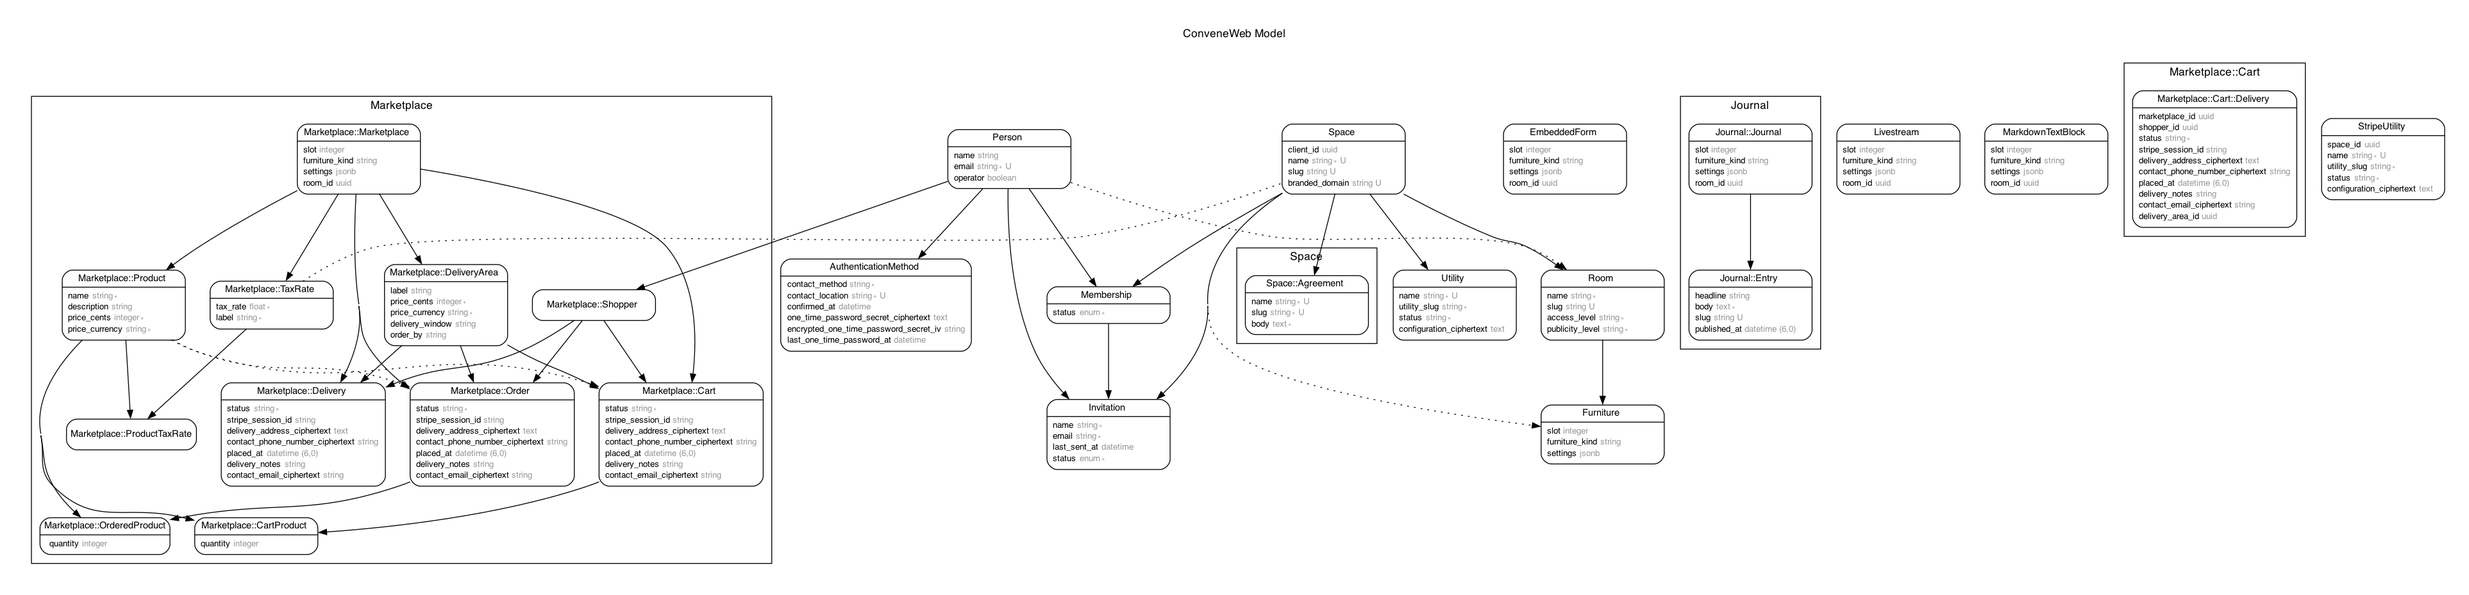
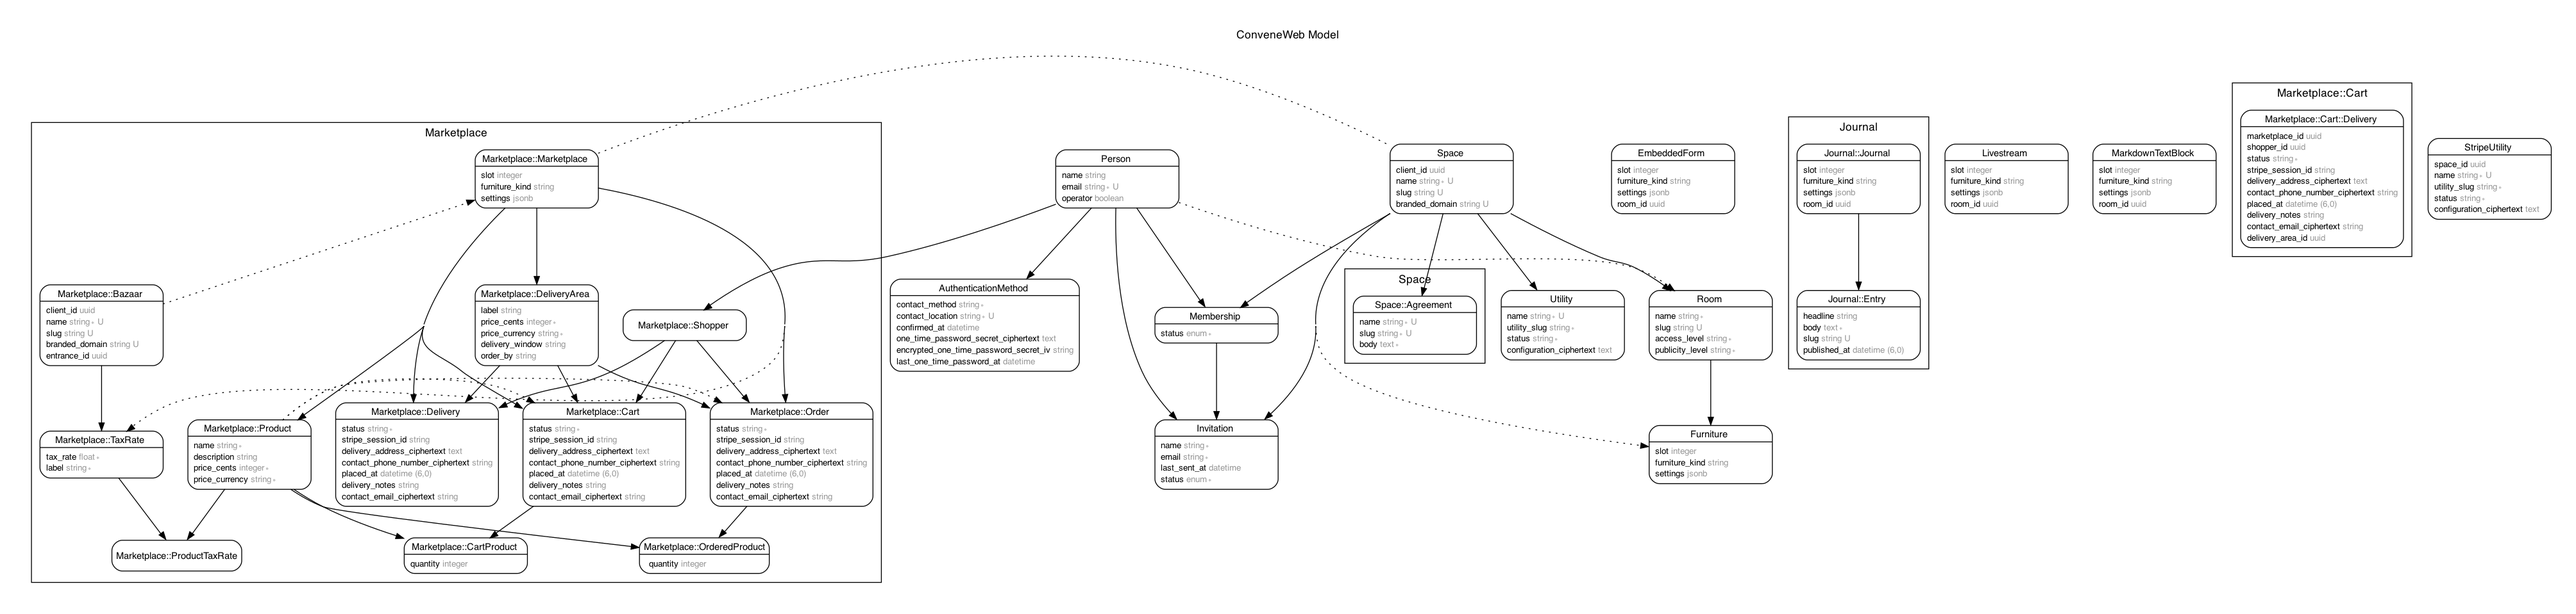
`Marketplace`: `TaxRate`s connect to `Bazaar`
- https://github.com/zinc-collective/convene/issues/1137

OK this is a bit larger than I wanted it to be, but it should be a
purely structural change.

- Creates a `Marketplace::Bazaar` class to attach the `TaxRate`
- Migrates `TaxRate` connection to the `Bazaar` on migration
- Maintains the wiring of the `TaxRate` to the `Marketplace`

diff --git a/db/schema.rb b/db/schema.rb
@@ -10,7 +10,7 @@
 #
 # It's strongly recommended that you check this file into your version control system.
 
-ActiveRecord::Schema[7.0].define(version: 2023_04_27_003441) do
+ActiveRecord::Schema[7.0].define(version: 2023_05_14_174823) do
   # These are extensions that must be enabled in order to support this database
   enable_extension "pgcrypto"
   enable_extension "plpgsql"
@@ -22,12 +22,12 @@ ActiveRecord::Schema[7.0].define(version: 2023_04_27_003441) do
     "expired",
     "ignored",
     "revoked",
-    "sent",
+    "sent"
   ], force: :cascade
 
   create_enum :membership_status, [
     "active",
-    "revoked",
+    "revoked"
   ], force: :cascade
 
   create_table "active_storage_attachments", id: :uuid, default: -> { "gen_random_uuid()" }, force: :cascade do |t|
@@ -190,6 +190,8 @@ ActiveRecord::Schema[7.0].define(version: 2023_04_27_003441) do
     t.uuid "marketplace_id"
     t.datetime "created_at", null: false
     t.datetime "updated_at", null: false
+    t.uuid "bazaar_id"
+    t.index ["bazaar_id"], name: "index_marketplace_tax_rates_on_bazaar_id"
     t.index ["marketplace_id"], name: "index_marketplace_tax_rates_on_marketplace_id"
   end
 

diff --git a/spec/factories/furniture/marketplace.rb b/spec/factories/furniture/marketplace.rb
@@ -63,6 +63,10 @@ FactoryBot.define do
     end
   end
 
+  factory :marketplace_bazaar, class: "Marketplace::Bazaar" do
+    sequence(:name) { |n| "The Market of #{Faker::Fantasy::Tolkien.location} #{n}" }
+  end
+
   factory :marketplace_product, class: "Marketplace::Product" do
     name { Faker::TvShows::DrWho.specie }
     price_cents { Random.rand(1_00..999_99) }
@@ -160,9 +164,10 @@ FactoryBot.define do
   end
 
   factory :marketplace_tax_rate, class: "Marketplace::TaxRate" do
+    marketplace { association(:marketplace) }
+    bazaar { marketplace&.bazaar }
     label { "#{Faker::TvShows::RuPaul.queen} Tax" }
     tax_rate { (1..45).to_a.sample }
-    marketplace { association(:marketplace) }
   end
 
   factory :marketplace_delivery_area, class: "Marketplace::DeliveryArea" do

diff --git a/app/furniture/marketplace/marketplace.rb b/app/furniture/marketplace/marketplace.rb
@@ -5,11 +5,14 @@ class Marketplace
     location(parent: :room)
     default_scope { where(furniture_kind: "marketplace") }
 
+    has_one :space, through: :room, inverse_of: :furnitures
+    has_one :bazaar, through: :room, inverse_of: :furnitures, source: :space, class_name: "Bazaar"
+    has_many :tax_rates, inverse_of: :marketplace
+
     has_many :products, inverse_of: :marketplace, dependent: :destroy
     has_many :carts, inverse_of: :marketplace, dependent: :destroy
     has_many :orders, inverse_of: :marketplace
 
-    has_many :tax_rates, inverse_of: :marketplace
     has_many :delivery_areas, inverse_of: :marketplace, dependent: :destroy
 
     setting :notify_emails

diff --git a/app/furniture/marketplace/tax_rates_controller.rb b/app/furniture/marketplace/tax_rates_controller.rb
@@ -77,16 +77,16 @@ class Marketplace
       @tax_rate ||= if params[:id]
         tax_rates.find(params[:id])
       elsif params[:tax_rate]
-        tax_rates.new(tax_rate_params)
+        tax_rates.new(tax_rate_params.merge(marketplace: marketplace))
       else
-        tax_rates.new
+        tax_rates.new(marketplace: marketplace)
       end.tap do |tax_rate|
         authorize(tax_rate)
       end
     end
 
     helper_method def tax_rates
-      @tax_rates ||= policy_scope(marketplace.tax_rates)
+      @tax_rates ||= policy_scope(bazaar.tax_rates)
     end
   end
 end

diff --git a/spec/furniture/marketplace/tax_rate_spec.rb b/spec/furniture/marketplace/tax_rate_spec.rb
@@ -7,6 +7,6 @@ RSpec.describe Marketplace::TaxRate, type: :model do
 
   it { is_expected.to have_many(:product_tax_rates).inverse_of(:tax_rate) }
   it { is_expected.to have_many(:products).through(:product_tax_rates).inverse_of(:tax_rates) }
-  it { is_expected.to have_one(:space).through(:marketplace) }
+  it { is_expected.to belong_to(:bazaar).inverse_of(:tax_rates) }
   it { is_expected.to belong_to(:marketplace).inverse_of(:tax_rates) }
 end

diff --git a/app/furniture/marketplace/bazaar.rb b/app/furniture/marketplace/bazaar.rb
@@ -1,0 +1,12 @@
+class Marketplace
+  # Serves as a connection point for cross-marketplace functionality, like
+  # {TaxRate} and {Shopper}.
+  class Bazaar < ::Space
+    has_many :marketplaces, through: :rooms, source: :furnitures, inverse_of: :bazaar, class_name: "Marketplace"
+    has_many :tax_rates, inverse_of: :bazaar, dependent: :destroy
+
+    def space
+      becomes(Space)
+    end
+  end
+end

diff --git a/app/furniture/marketplace/tax_rate.rb b/app/furniture/marketplace/tax_rate.rb
@@ -4,7 +4,8 @@ class Marketplace
     location(parent: :marketplace)
 
     belongs_to :marketplace, inverse_of: :tax_rates
-    has_one :space, through: :marketplace
+    belongs_to :bazaar, inverse_of: :tax_rates
+    delegate :space, to: :bazaar
 
     validates :tax_rate, numericality: {greater_than: 0, less_than_or_equal_to: 100}, presence: true
     validates :label, presence: true

diff --git a/app/furniture/marketplace/controller.rb b/app/furniture/marketplace/controller.rb
@@ -4,6 +4,9 @@ class Marketplace
       @marketplace ||= policy_scope(Marketplace).find(params[:marketplace_id])
     end
 
+    delegate :bazaar, to: :marketplace
+    helper_method :bazaar
+
     helper_method def shopper
       @shopper ||= if current_person.is_a?(Guest)
         Shopper.find_or_create_by(id: session[:guest_shopper_id] ||= SecureRandom.uuid)

diff --git a/spec/furniture/marketplace/tax_rates_controller_request_spec.rb b/spec/furniture/marketplace/tax_rates_controller_request_spec.rb
@@ -28,6 +28,10 @@ RSpec.describe Marketplace::TaxRatesController, type: :request do
     end
 
     it { is_expected.to redirect_to(marketplace.location(child: :tax_rates)) }
+
+    specify do
+      expect { perform_request }.to change { marketplace.tax_rates.count }.by(1)
+    end
   end
 
   describe "#edit" do

diff --git a/spec/furniture/marketplace/bazaar_spec.rb b/spec/furniture/marketplace/bazaar_spec.rb
@@ -1,0 +1,6 @@
+require "rails_helper"
+
+RSpec.describe Marketplace::Bazaar, type: :model do
+  it { is_expected.to have_many(:marketplaces).through(:rooms).inverse_of(:bazaar) }
+  it { is_expected.to have_many(:tax_rates).inverse_of(:bazaar).dependent(:destroy) }
+end

diff --git a/db/migrate/20230514174823_marketplace_add_bazaar_to_tax_rate.rb b/db/migrate/20230514174823_marketplace_add_bazaar_to_tax_rate.rb
@@ -1,0 +1,6 @@
+class MarketplaceAddBazaarToTaxRate < ActiveRecord::Migration[7.0]
+  disable_ddl_transaction!
+  def change
+    add_reference :marketplace_tax_rates, :bazaar, type: :uuid, null: true, index: {algorithm: :concurrently}
+  end
+end
